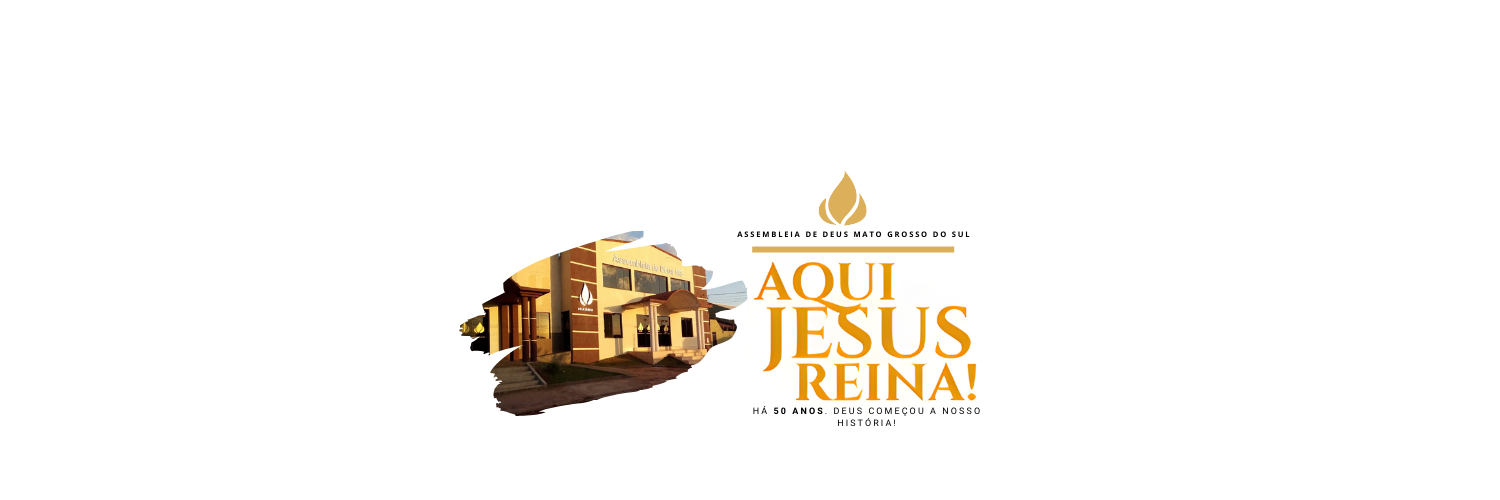
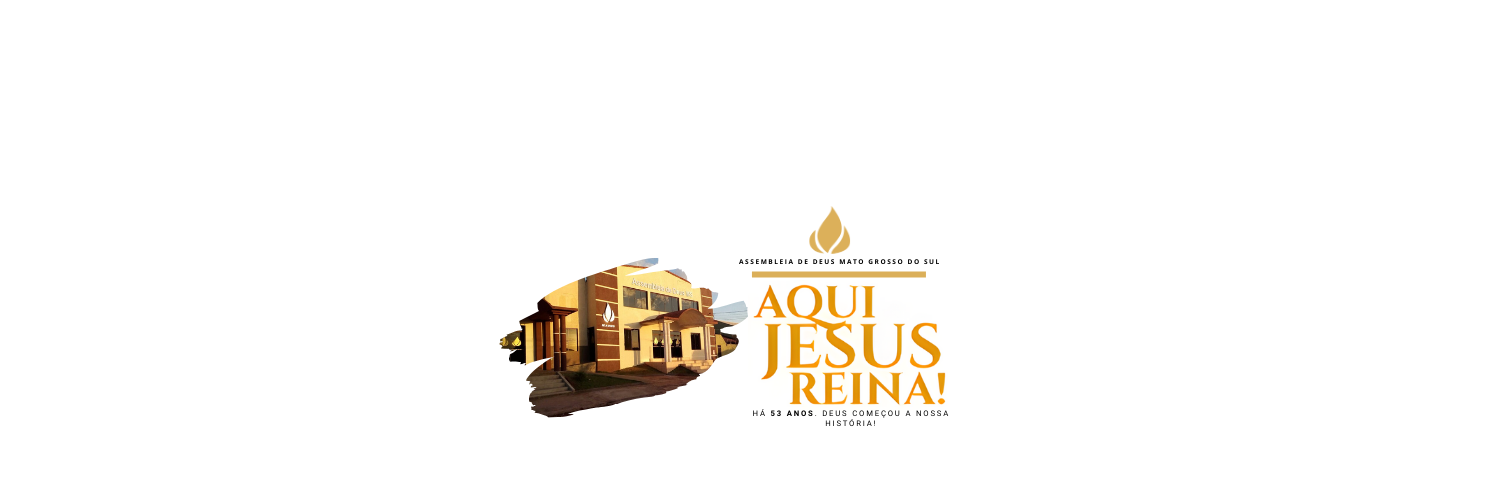
Correção das imagens

Changed region(s): [[0.3067, 0.36, 0.6747, 0.87]]

diff --git a/src/components/HeroSection.tsx b/src/components/HeroSection.tsx
@@ -15,7 +15,7 @@ const HeroSection = () => {
   ];
 
   const carouselImagesMobile = [
-    'https://res.cloudinary.com/dapypkcbb/image/upload/v1765835831/Aqui_Jesus_upscayl_5x_upscayl-standard-4x_vgqoic.png',
+    'https://res.cloudinary.com/dapypkcbb/image/upload/v1765922318/Aqui_Jesus_1_afsrmw.png',
     'https://res.cloudinary.com/dapypkcbb/image/upload/v1765835587/Peniel_upscayl_5x_upscayl-standard-4x_jvp23g.png',
     'https://res.cloudinary.com/dapypkcbb/image/upload/v1765836155/UMADEMATS_upscayl_5x_upscayl-standard-4x_jibdkd.png',
     'https://res.cloudinary.com/dapypkcbb/image/upload/v1765836342/CIFAD_sta85v.png',
